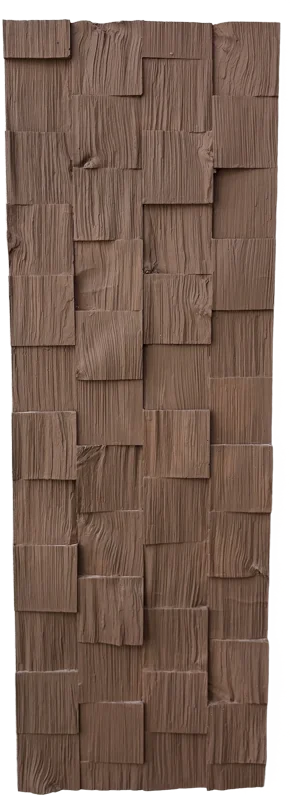
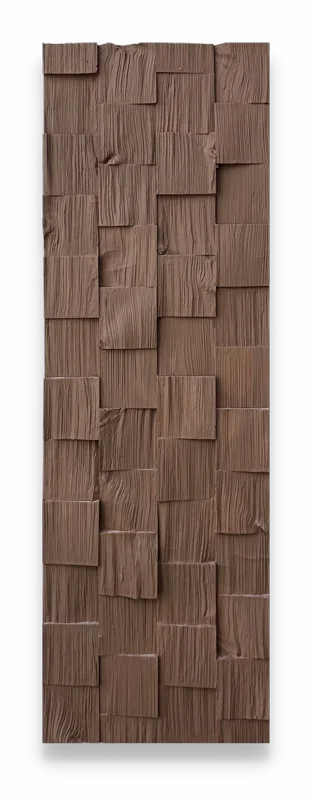
Catalogue : carte unique Moulures & Plinthes ; packshot Bois Cubo nettoyé
- Moulures & Plinthes : une seule carte, visuel carré coupé en diagonale
  (haut-droite → bas-gauche) : moitié moulures → page moulures, moitié
  plinthes → page plinthes ; infos fusionnées (moulures 195 cm × 28 / 38 mm,
  plinthes carrées 2,20 m × 10 / 8 / 7 cm, prêtes à peindre)
- Bois Cubo : packshot redressé (perspective corrigée aux proportions
  120 × 39), bords nettoyés, léger contraste, ombre portée douce ;
  texture et teinte d'origine conservées (aucune génération)

diff --git a/panneaux-modeles.html b/panneaux-modeles.html
@@ -47,6 +47,21 @@
   .pcard-ref{font-size:10.5px;letter-spacing:.16em;text-transform:uppercase;color:var(--encre);white-space:nowrap}
   .pcard-desc{font-size:12.5px;letter-spacing:.04em;color:var(--ink-soft);opacity:.7;margin-top:4px}
   .pcard.hide{display:none}
+  .pcard-duo{cursor:default}
+  .pcard-duo .duo{position:relative;width:86%;aspect-ratio:1/1;filter:drop-shadow(0 14px 18px rgba(20,20,15,.18))}
+  .pcard-duo .duo-a{position:absolute;inset:0;display:block;overflow:hidden}
+  .pcard-duo .duo-a img{width:100%;height:100%;object-fit:cover;transition:transform .9s cubic-bezier(.2,.7,.2,1)}
+  .pcard-duo .duo-m{clip-path:polygon(0 0,calc(100% - 4px) 0,0 calc(100% - 4px))}
+  .pcard-duo .duo-m img{object-position:left top}
+  .pcard-duo .duo-p{clip-path:polygon(100% 4px,100% 100%,4px 100%)}
+  .pcard-duo .duo-p img{transform:scale(1.28);transform-origin:88% 42%}
+  .pcard-duo .duo-m:hover img{transform:scale(1.06)}
+  .pcard-duo .duo-p:hover img{transform:scale(1.36)}
+  .pcard-duo .duo-a span{position:absolute;font-size:10px;letter-spacing:.2em;text-transform:uppercase;background:rgba(245,242,236,.92);color:var(--basalte);padding:6px 10px}
+  .pcard-duo .duo-m span{top:10px;left:10px}
+  .pcard-duo .duo-p span{bottom:10px;right:10px}
+  .pcard-duo .pcard-desc a{border-bottom:1px solid var(--line)}
+
 
   .fam-head{grid-column:1 / -1;padding:34px 0 4px;display:flex;align-items:baseline;gap:18px}
   .fam-head:first-child{padding-top:0}
@@ -271,21 +286,16 @@ src="https://www.facebook.com/tr?id=1750427786411371&ev=PageView&noscript=1"/></
       </a>
       <!-- FAMILLE : Moulures & plinthes -->
       <div class="fam-head" data-fam="finitions"><h2 class="serif">Moulures &amp; plinthes</h2><span class="fl">Prêtes à peindre</span></div>
-      <a class="pcard" data-cat="finitions" data-name="Moulure 28 mm" href="moulures-decoratives.html#modeles-moulures">
-        <div class="pcard-ph"><img src="images/moulures.webp" alt="Moulure décorative prête à peindre — 195 cm × 28 mm" style="object-fit:cover"><span class="req"><span>Voir le modèle</span></span></div>
-        <div class="pcard-info"><span class="pcard-name">Moulure 28 mm</span></div>
-        <div class="pcard-desc">195 cm × 28 mm · prête à peindre</div>
-      </a>
-      <a class="pcard" data-cat="finitions" data-name="Moulure 38 mm" href="moulures-decoratives.html#modeles-moulures">
-        <div class="pcard-ph"><img src="images/moulures.webp" alt="Moulure décorative prête à peindre — 195 cm × 38 mm" style="object-fit:cover"><span class="req"><span>Voir le modèle</span></span></div>
-        <div class="pcard-info"><span class="pcard-name">Moulure 38 mm</span></div>
-        <div class="pcard-desc">195 cm × 38 mm · prête à peindre</div>
-      </a>
-      <a class="pcard" data-cat="finitions" data-name="Plinthes carrées" href="plinthes-pretes-a-peindre.html">
-        <div class="pcard-ph"><img src="images/plinthe-a-peindre.webp" alt="Plinthe carrée prête à peindre en Polymère Celestone™" style="object-fit:cover"><span class="req"><span>Voir le modèle</span></span></div>
-        <div class="pcard-info"><span class="pcard-name">Plinthes carrées</span></div>
-        <div class="pcard-desc">2,20 m · hauteurs 10 / 8 / 7 cm</div>
-      </a>
+      <div class="pcard pcard-duo" data-cat="finitions" data-name="Moulures &amp; Plinthes">
+        <div class="pcard-ph">
+          <div class="duo">
+            <a class="duo-a duo-m" href="moulures-decoratives.html" aria-label="Voir les moulures"><img src="images/moulures-800.webp" alt="Moulures décoratives prêtes à peindre" loading="lazy"><span>Moulures</span></a>
+            <a class="duo-a duo-p" href="plinthes-pretes-a-peindre.html" aria-label="Voir les plinthes"><img src="images/plinthe-carree-hero-800.webp" alt="Plinthe carrée prête à peindre" loading="lazy"><span>Plinthes</span></a>
+          </div>
+        </div>
+        <div class="pcard-info"><span class="pcard-name">Moulures &amp; Plinthes</span><span class="pcard-ref">Prêtes à peindre</span></div>
+        <div class="pcard-desc"><a href="moulures-decoratives.html">Moulures 195 cm × 28 / 38 mm</a> · <a href="plinthes-pretes-a-peindre.html">Plinthes carrées 2,20 m × 10 / 8 / 7 cm</a></div>
+      </div>
 
 
     </div>
@@ -372,7 +382,7 @@ src="https://www.facebook.com/tr?id=1750427786411371&ev=PageView&noscript=1"/></
     var WA='https://wa.me/212614474221?text=';
     // pre-fill WhatsApp per model
     document.querySelectorAll('.pcard').forEach(function(c){
-      if(c.getAttribute('href')) return; // garde les liens vers une page produit
+      if(c.tagName!=='A'||c.getAttribute('href')) return; // garde les liens vers une page produit
       var name=c.dataset.name||'un modèle';
       var ref=c.dataset.ref||'';
       var msg='Bonjour Deutschconfort, je suis intéressé(e) par le panneau mural : '+name+(ref?(' ('+ref+')'):'')+'. Pouvez-vous m\'envoyer plus d\'informations et un devis ?\nRéf W-MOD';
